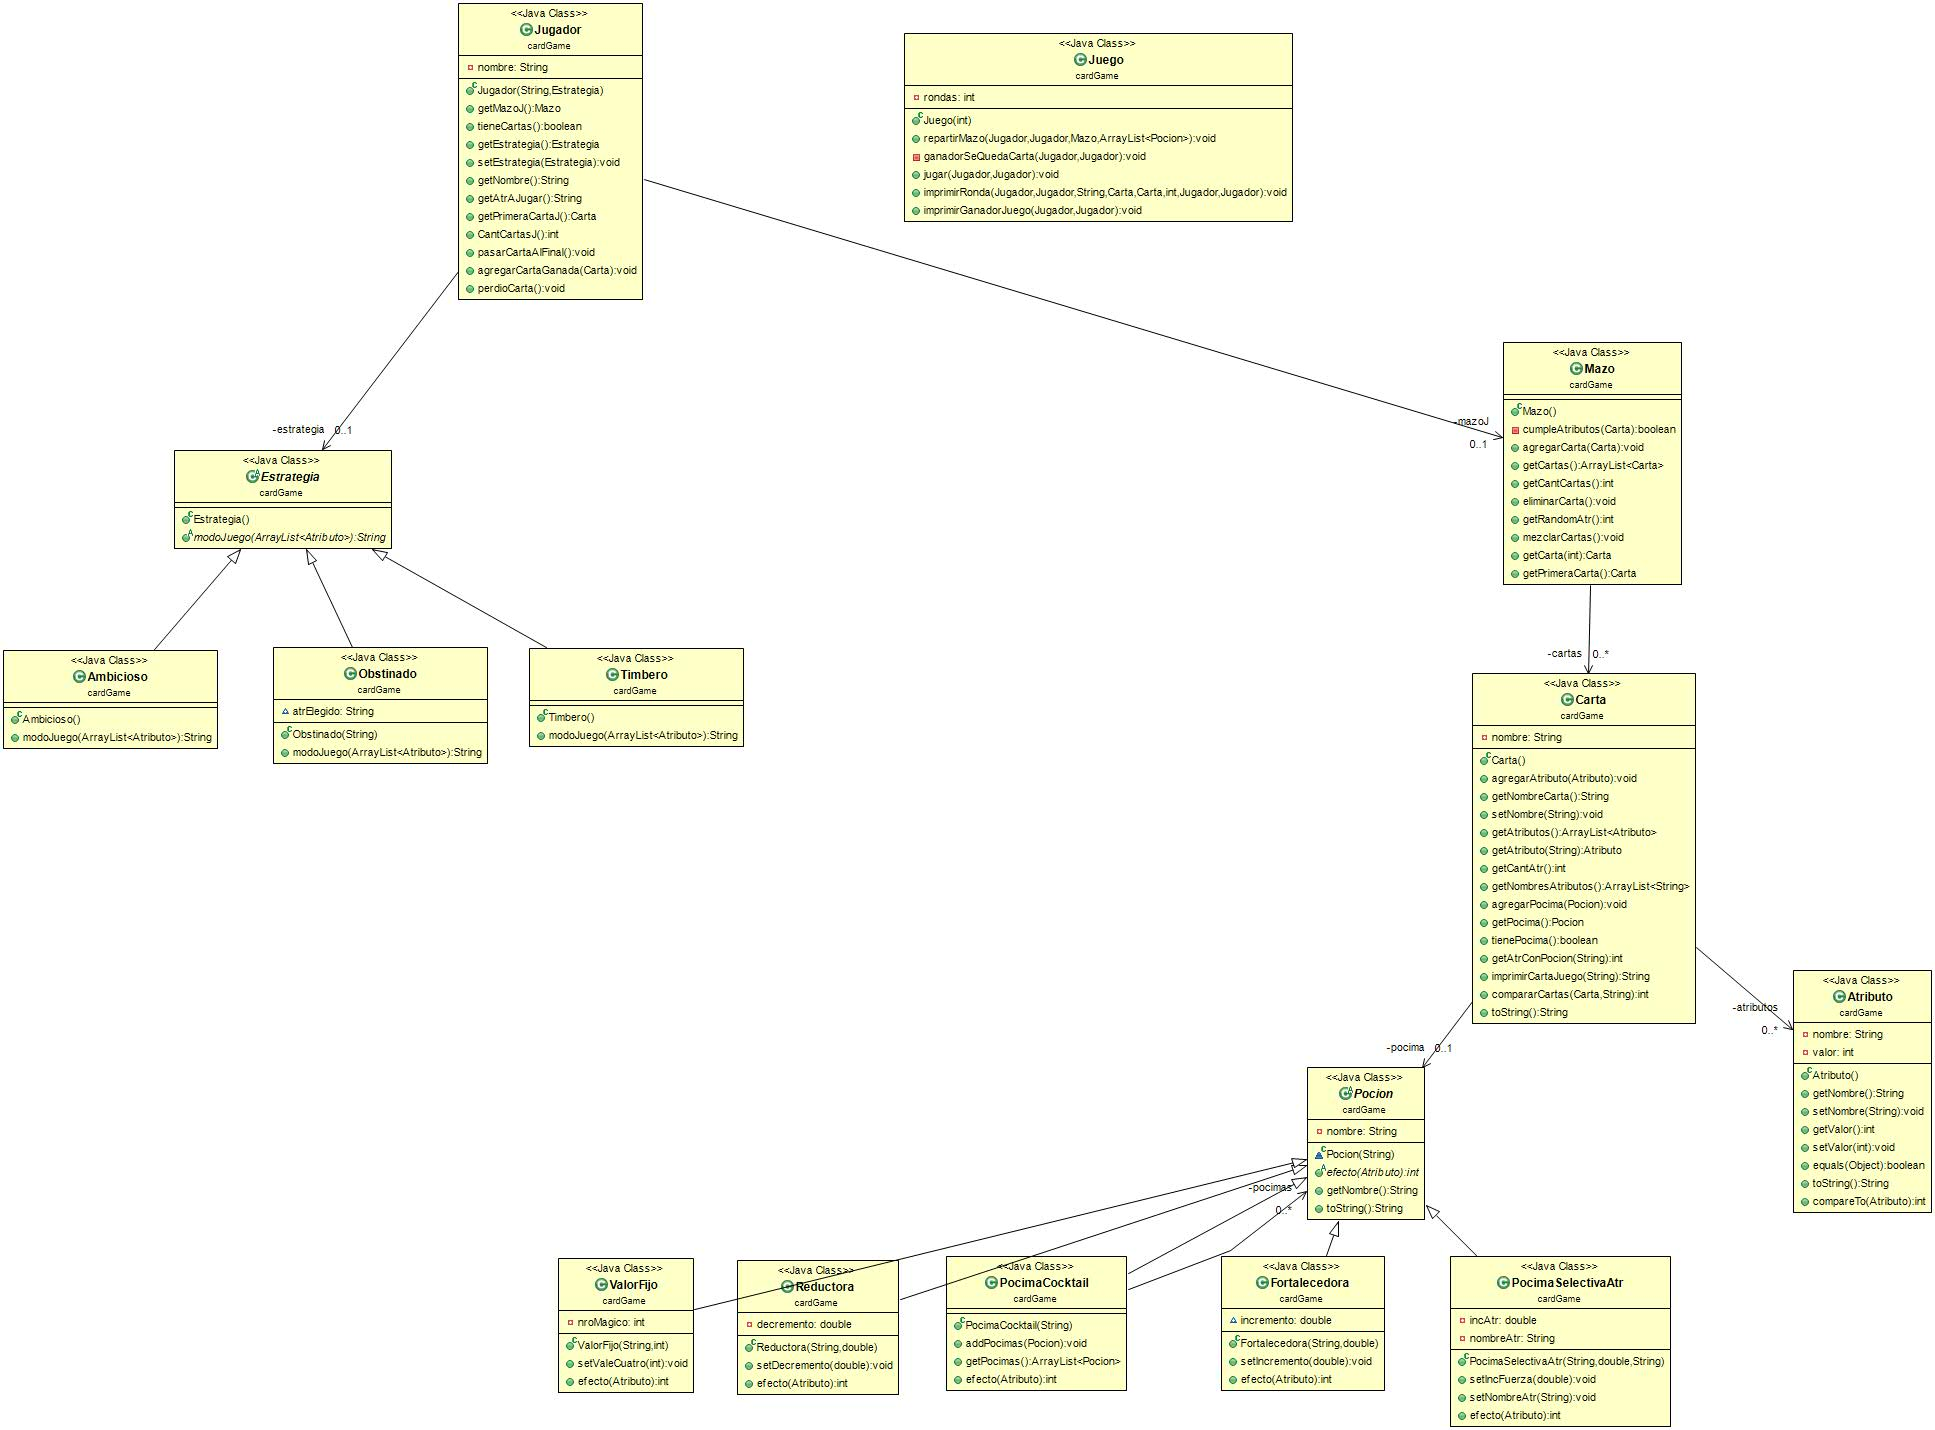
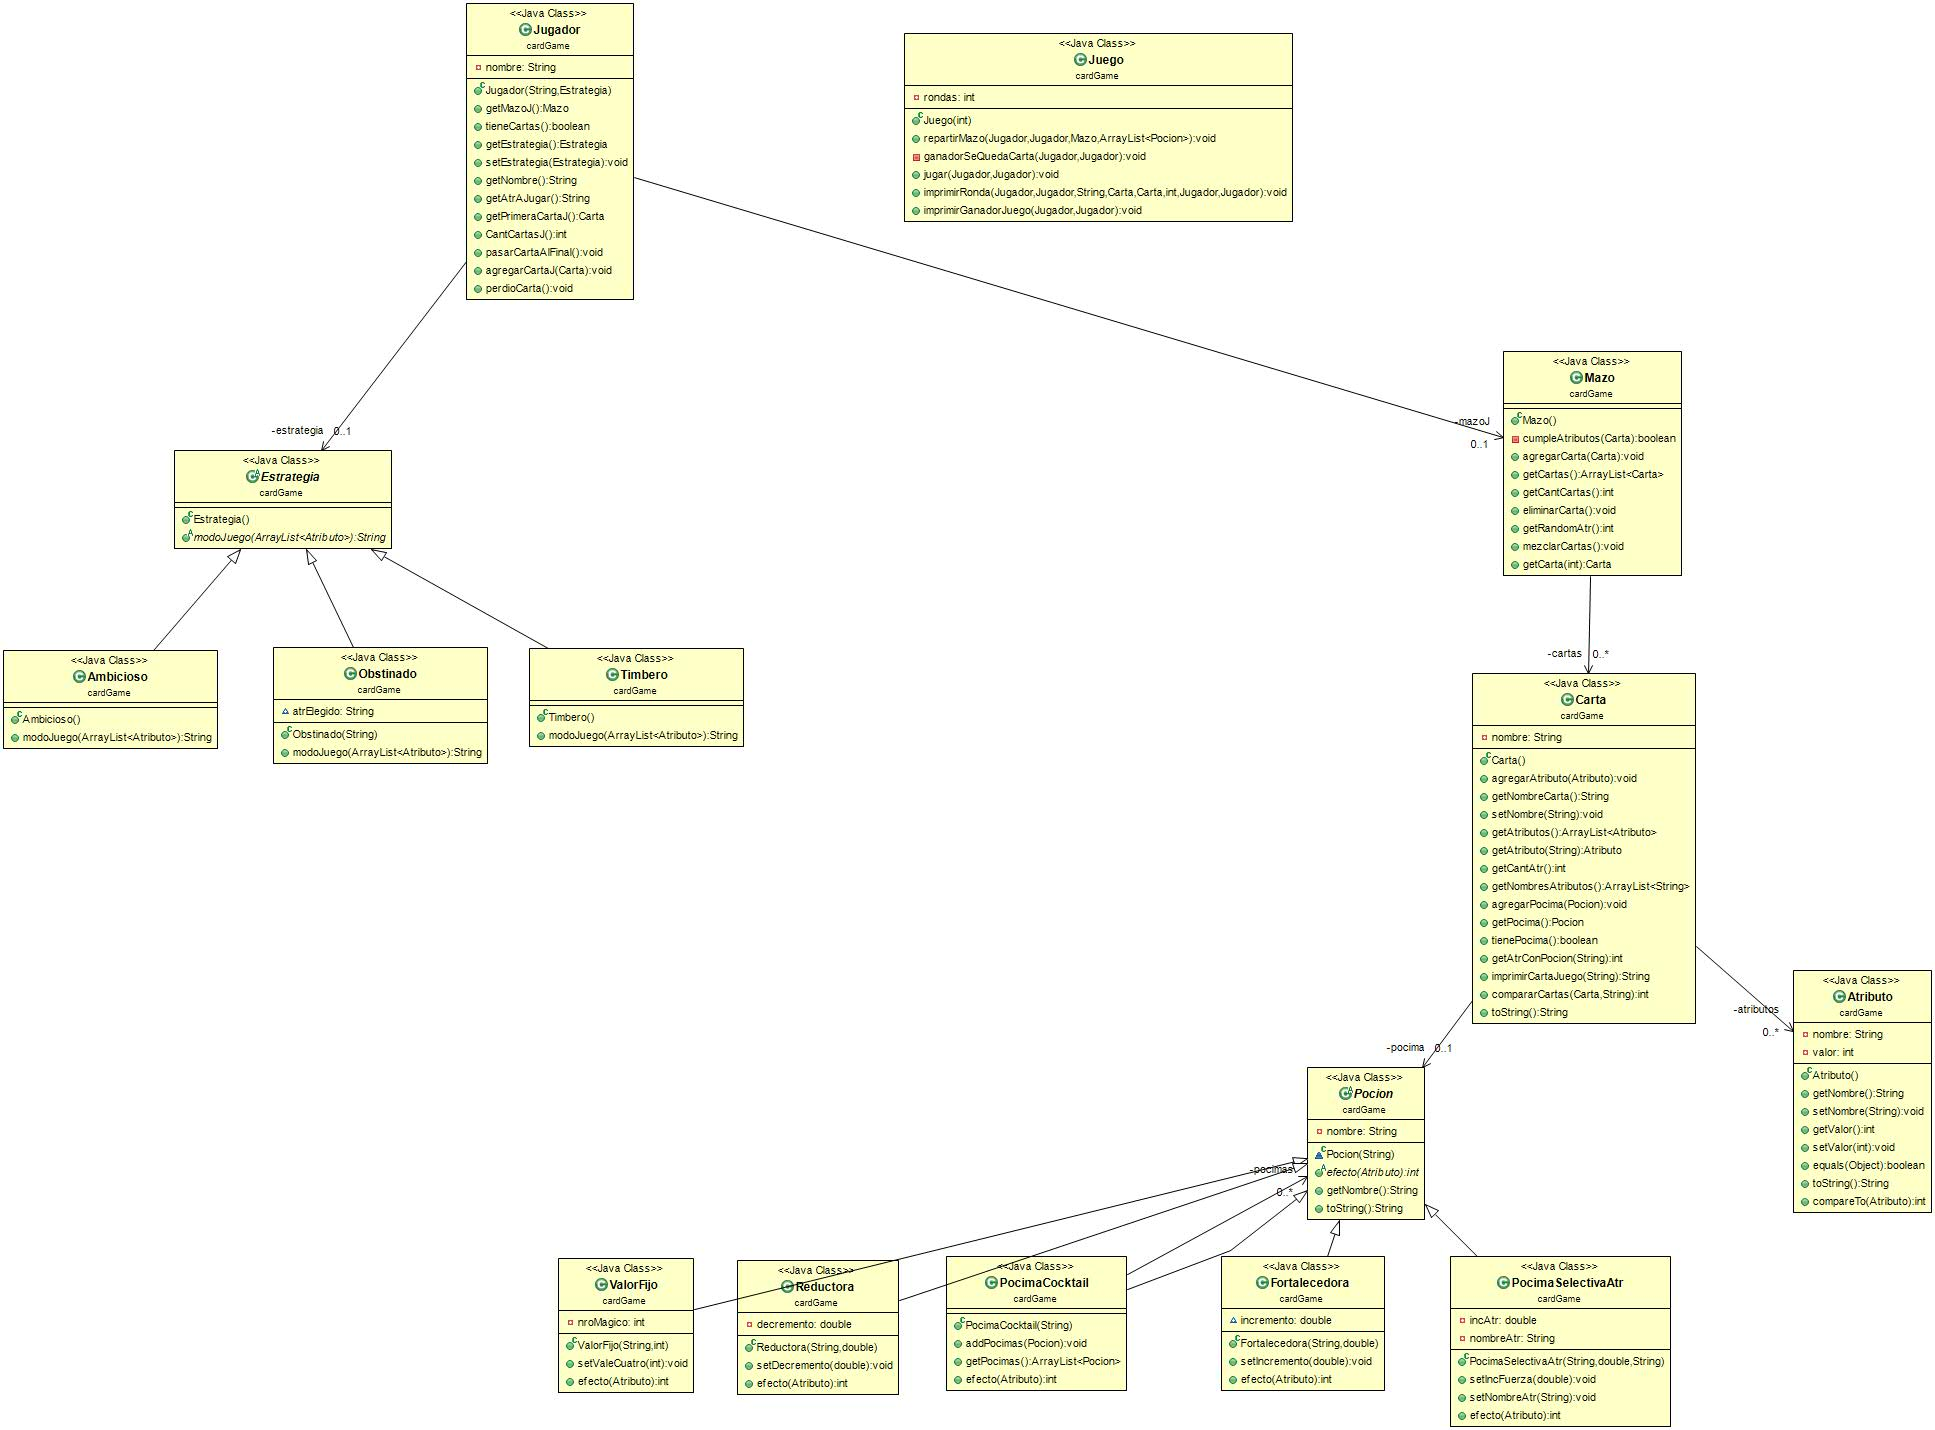
Proyecto finalizado

diff --git a/cardGame/Juego.java b/cardGame/Juego.java
@@ -23,10 +23,10 @@ public class Juego {
 	                	Carta auxCarta = new Carta();
 	                    auxCarta = cartas.get(i);
 	                    auxCarta.agregarPocima(pocimas.get(i));
-	                    j1.getMazoJ().agregarCarta(auxCarta);
+	                    j1.agregarCartaJ(auxCarta);
 	                    
 	                } else {
-	                    j1.getMazoJ().agregarCarta(cartas.get(i));
+	                    j1.agregarCartaJ(cartas.get(i));
 	                }
 	            } else {
 	            	
@@ -35,10 +35,10 @@ public class Juego {
 	                	Carta auxCarta = new Carta();
 	                    auxCarta = cartas.get(i);
 	                    auxCarta.agregarPocima(pocimas.get(i));
-	                    j2.getMazoJ().agregarCarta(auxCarta);
+	                    j2.agregarCartaJ(auxCarta);
 	                    
 	                } else {
-	                    j2.getMazoJ().agregarCarta(cartas.get(i));
+	                    j2.agregarCartaJ(cartas.get(i));
 	                }
 	            }
 
@@ -48,7 +48,7 @@ public class Juego {
 	 
 	
 	 private void ganadorSeQuedaCarta(Jugador ganador, Jugador perdedor) {   		    		    	
-	        ganador.agregarCartaGanada(perdedor.getPrimeraCartaJ()); // forma interna
+	        ganador.agregarCartaJ(perdedor.getPrimeraCartaJ()); // forma interna
 	        perdedor.perdioCarta();
 	        ganador.pasarCartaAlFinal(); 
 	    }

diff --git a/cardGame/Jugador.java b/cardGame/Jugador.java
@@ -44,7 +44,7 @@ public class Jugador {
 	public String getAtrAJugar() {
 		
 		if(this.tieneCartas()) {
-			Carta carta = mazoJ.getPrimeraCarta();
+			Carta carta = getPrimeraCartaJ();
 			String atrAJugar = this.getEstrategia().modoJuego(carta.getAtributos());
 			return atrAJugar;
 		}
@@ -52,7 +52,7 @@ public class Jugador {
 	}
 	
 	public Carta getPrimeraCartaJ() {
-		return getMazoJ().getPrimeraCarta();
+		return this.getMazoJ().getCarta(0);
 	}
 	
 	
@@ -67,7 +67,7 @@ public class Jugador {
 		 this.getMazoJ().eliminarCarta();
 	 }
 	 
-	 public void agregarCartaGanada(Carta c) {
+	 public void agregarCartaJ(Carta c) {
 		 this.getMazoJ().agregarCarta(c);
 	 }
 	 

diff --git a/cardGame/Mazo.java b/cardGame/Mazo.java
@@ -65,8 +65,6 @@ public class Mazo {
 		return cartas.get(carta);
 	}
 	
-	public Carta getPrimeraCarta() {
-		return cartas.get(0);
-	}
+	
 	
 }
